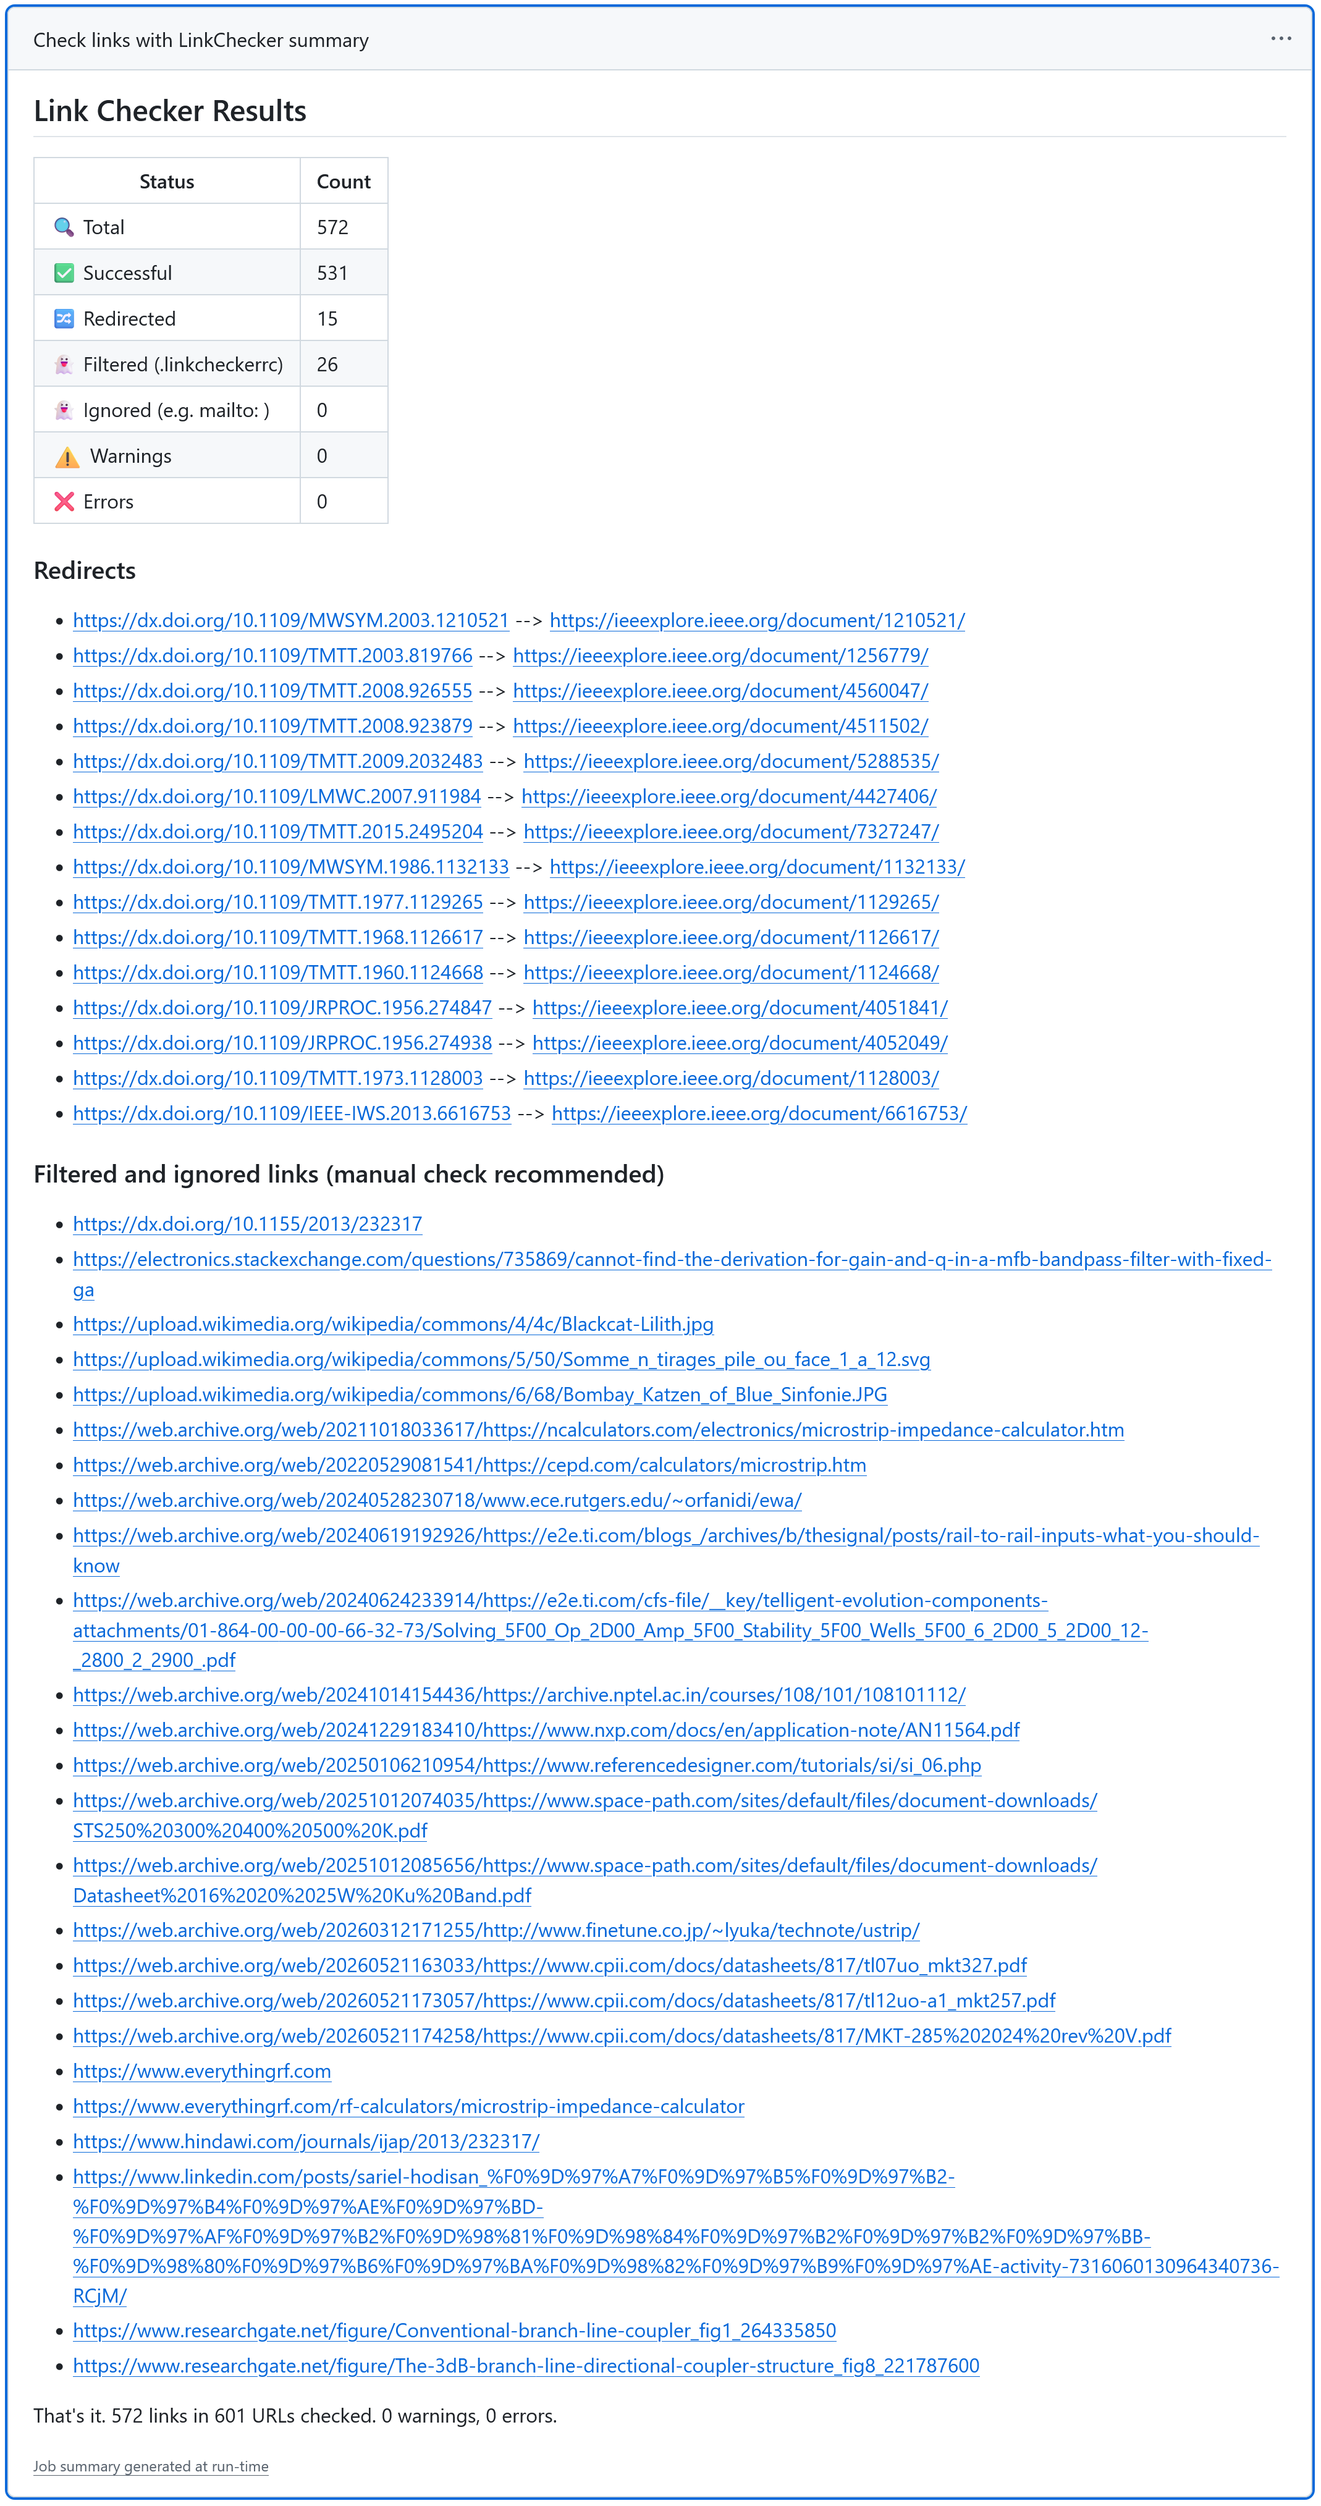
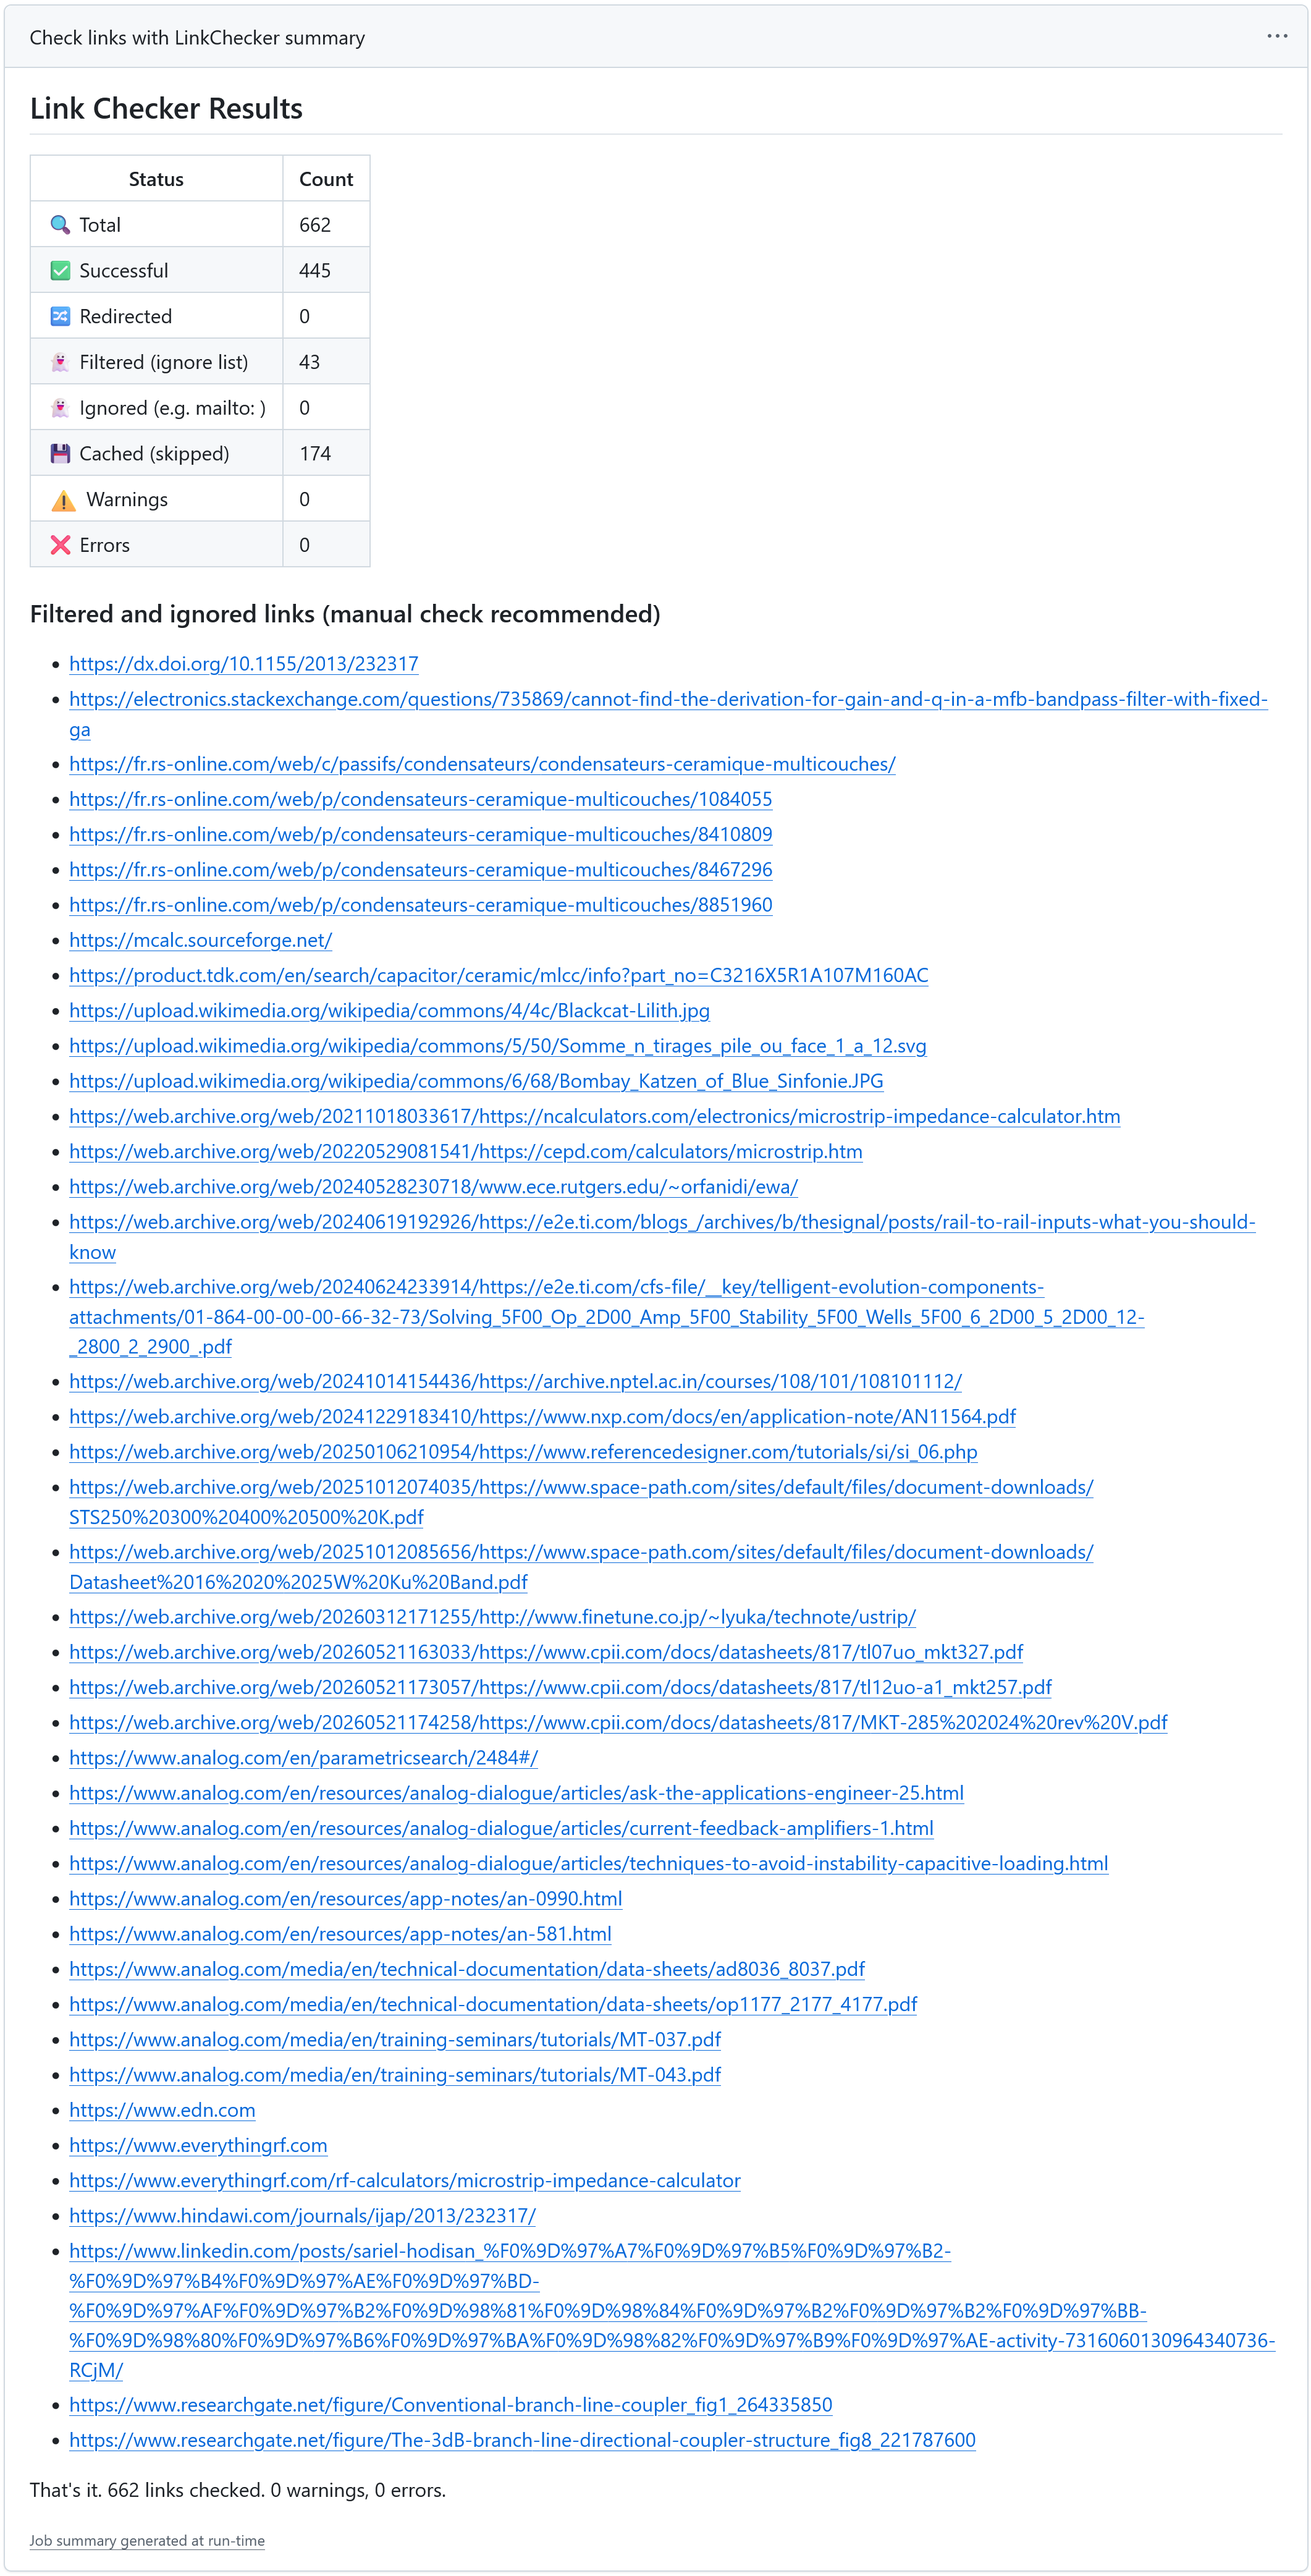
Add cache to the link checker page.

Changed region(s): [[0.0, 0.0, 1.0, 1.0]]

diff --git a/content/posts/2026-09-13-automatic-link-checker.md b/content/posts/2026-09-13-automatic-link-checker.md
@@ -52,8 +52,12 @@ According to the latest statistics, out of 655 links checked, 25 links are ignor
 
 * doi.org, redirecting towards Cloudflare sites.
 
+## Cache
+
+In development phases, it is not rare to run the test scripts a lot of times. Checking all the urls each time would not only be very unconvenient, but would also have the risk of triggering various anti-bot protections. So a cache mechanism is implemented to allow checking only when needed.
+
 ## Summary page
 
 The script also produces a very convenient summary page for display on GitHub actions pages, like the one shown below (slightly older, with 26 ignored links instead of the current 25):
 
-![Summary page generated by the link checker, showing statistics, redirects, and ignored links.](/posts/automatic-link-checker/summary.webp)
+![Summary page generated by the link checker, showing statistics, redirects, ignored, and cached links.](/posts/automatic-link-checker/summary.webp)
